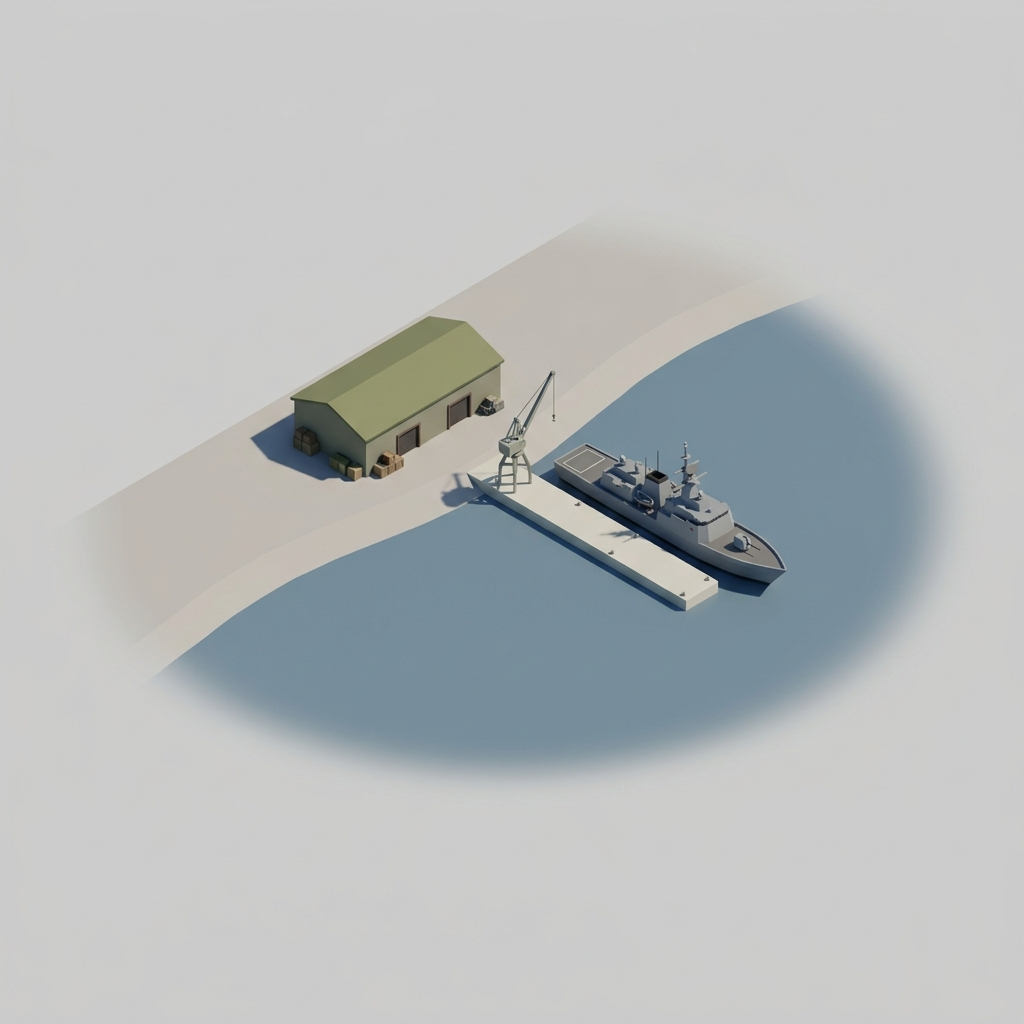
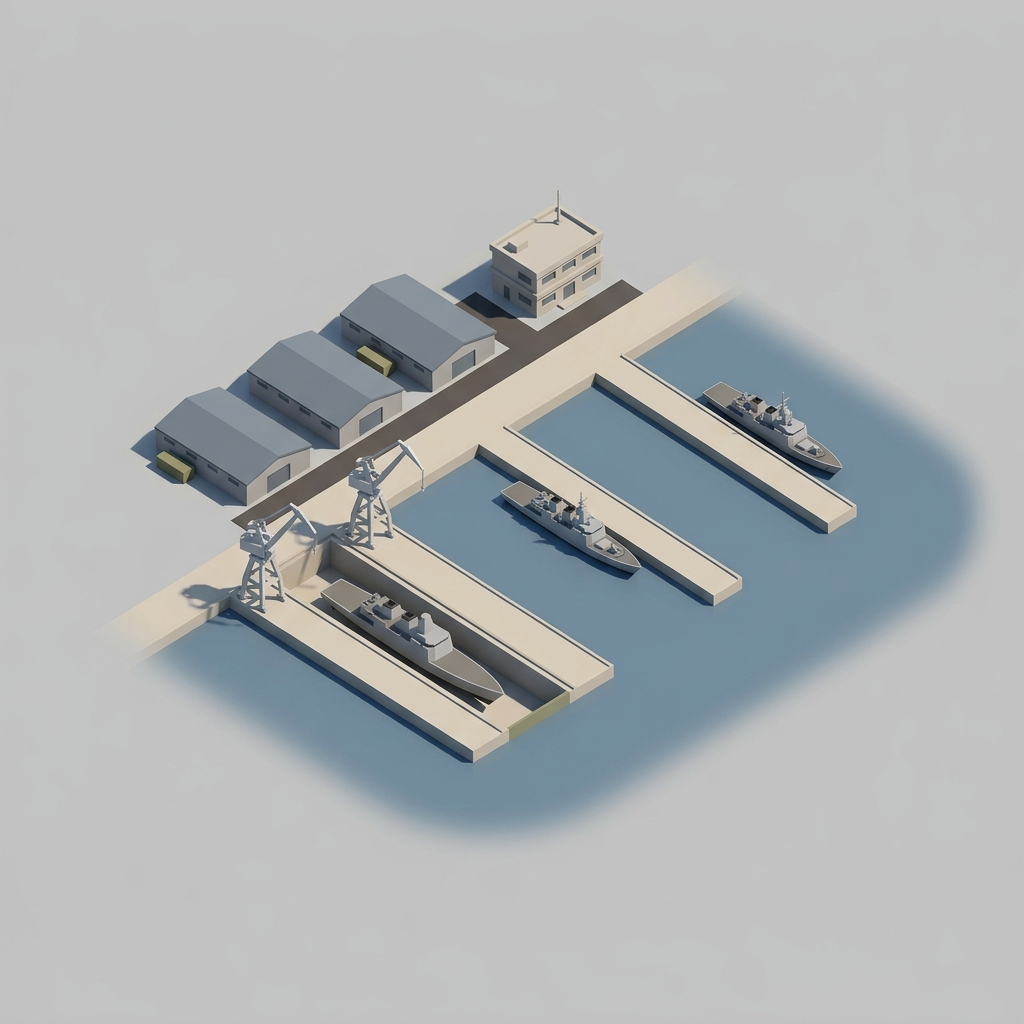
gen-art: Naval Yard 1 redone as a real navy base (three piers, warships, dry dock, cranes, warehouses, command building)
Claude-Session: https://claude.ai/code/session_01KVGBc2fZqigHVmF2eFuswo

diff --git a/tools/gen-art.py b/tools/gen-art.py
@@ -34,14 +34,16 @@ STYLE = ("Style: a clean, simplified 3D game-asset render of a modern military f
 # one entry per building level; the HQ, Airbase 1-5 and Recruiting Office 2-3 come from Higgsfield, not from here
 SUBJECTS = {
     'naval-yard-1': (
-        "A small naval yard on a coast, level 1 of 5, shown as a soft-edged vignette. The land is only a thin, gently curved "
-        "band of pale sandy-grey shore, barely wider than the warehouse, running diagonally from the upper left to the right; "
-        "it is flat with no visible thickness, and every edge of it, including both ends and the inland side, feathers out "
-        "softly into the plain grey background. Below the shore a small rounded patch of calm blue-grey water, whose whole "
-        "outer edge feathers out softly and evenly into the plain grey background, like a soft vignette, with no straight or "
-        "hard edges anywhere. One short straight concrete pier reaches from the shore into the water, with a single small grey "
-        "frigate moored alongside it. On the shore: one low warehouse shed with an olive-green roof and one small slim dockside "
-        "crane at the water's edge. The pier, frigate, warehouse and crane are large in the frame and span most of its width."),
+        "A country's military naval base, level 1 of 5, the smallest real navy base, shown as a soft-edged vignette. A straight "
+        "concrete waterfront runs diagonally from the upper left to the lower right; its inland side and both ends feather out "
+        "softly into the plain grey background. From the waterfront three long, straight, parallel concrete piers reach out "
+        "into calm blue-grey water, and two grey modern warships (frigates) are docked alongside them. Beside the piers, one "
+        "dry dock: a long narrow concrete basin cut into the waterfront, holding a third grey warship hull. Two large pale-grey "
+        "dockside gantry cranes stand at the water's edge by the dry dock. On the waterfront behind them: a row of three long "
+        "grey warehouses with slate-grey roofs and one two-storey command building of pale concrete with a flat roof and a "
+        "short radio mast. The water around the piers is a broad rounded patch whose whole outer edge feathers out softly and "
+        "evenly into the plain grey background, with no straight or hard edges. The base is large in the frame and spans "
+        "most of its width."),
 }
 
 def prompt(name): return SUBJECTS[name] + '\n\n' + STYLE
